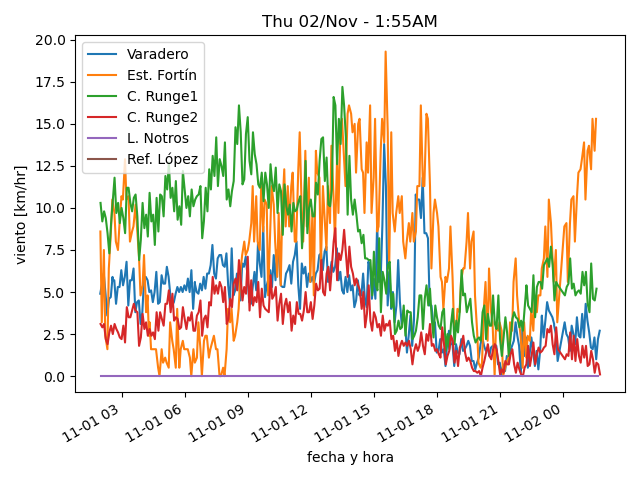
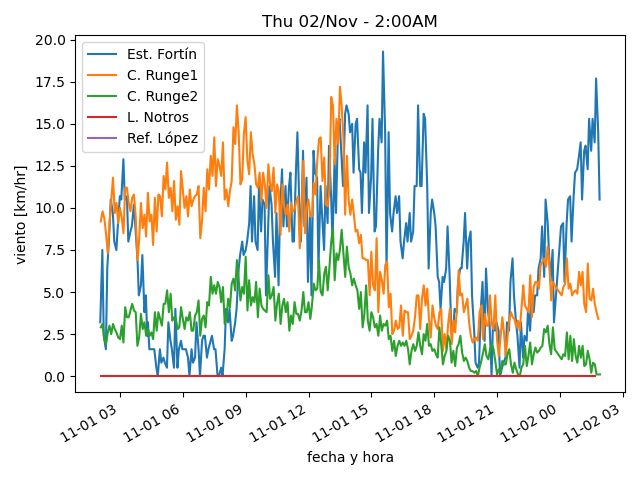
actualiza datos

diff --git a/estaciones/estacion2.html b/estaciones/estacion2.html
@@ -18,7 +18,7 @@
     </tr>
     <tr>
      <td class="stats_data">
-      1:33AM
+      1:53AM
      </td>
     </tr>
     <tr>
@@ -28,22 +28,22 @@
     </tr>
     <tr>
      <td class="stats_data">
-      1.6⁰C
+      1.5⁰C
      </td>
     </tr>
     <tr>
      <td class="stats_data">
-      90.0%
+      89.0%
      </td>
     </tr>
     <tr>
      <td class="stats_data">
-      1024.38hPa
+      1024.04hPa
      </td>
     </tr>
     <tr>
      <td class="stats_data">
-      13.0/15.3 km/hr ENE
+      7.2/10.5 km/hr ENE
      </td>
     </tr>
     <tr>

diff --git a/estaciones/estacion1.html b/estaciones/estacion1.html
@@ -18,22 +18,22 @@
     </tr>
     <tr>
      <td class="stats_data">
-      1:44AM
+      1:54AM
      </td>
     </tr>
     <tr>
      <td class="stats_data">
-      4.2⁰C
+      4.1⁰C
      </td>
     </tr>
     <tr>
      <td class="stats_data">
-      2.7⁰C
+      2.6⁰C
      </td>
     </tr>
     <tr>
      <td class="stats_data">
-      90.0%
+      90.1%
      </td>
     </tr>
     <tr>
@@ -43,7 +43,7 @@
     </tr>
     <tr>
      <td class="stats_data">
-      2.0/2.7 km/hr S
+      0.8/1.4 km/hr SSW
      </td>
     </tr>
     <tr>

diff --git a/estaciones/estacion3.html b/estaciones/estacion3.html
@@ -18,7 +18,7 @@
     </tr>
     <tr>
      <td class="stats_data">
-      1:34AM
+      1:49AM
      </td>
     </tr>
     <tr>
@@ -28,12 +28,12 @@
     </tr>
     <tr>
      <td class="stats_data">
-      2.1⁰C
+      1.9⁰C
      </td>
     </tr>
     <tr>
      <td class="stats_data">
-      90.8%
+      90.3%
      </td>
     </tr>
     <tr>
@@ -43,7 +43,7 @@
     </tr>
     <tr>
      <td class="stats_data">
-      3.6/5.2 km/hr SSE
+      2.5/3.4 km/hr S
      </td>
     </tr>
     <tr>

diff --git a/estaciones/estacion4.html b/estaciones/estacion4.html
@@ -18,7 +18,7 @@
     </tr>
     <tr>
      <td class="stats_data">
-      1:44AM
+      1:54AM
      </td>
     </tr>
     <tr>
@@ -33,17 +33,17 @@
     </tr>
     <tr>
      <td class="stats_data">
-      88.4%
+      88.3%
      </td>
     </tr>
     <tr>
      <td class="stats_data">
-      1021.91hPa
+      1021.54hPa
      </td>
     </tr>
     <tr>
      <td class="stats_data">
-      0.0/0.1 km/hr S
+      0.1/0.1 km/hr S
      </td>
     </tr>
     <tr>
